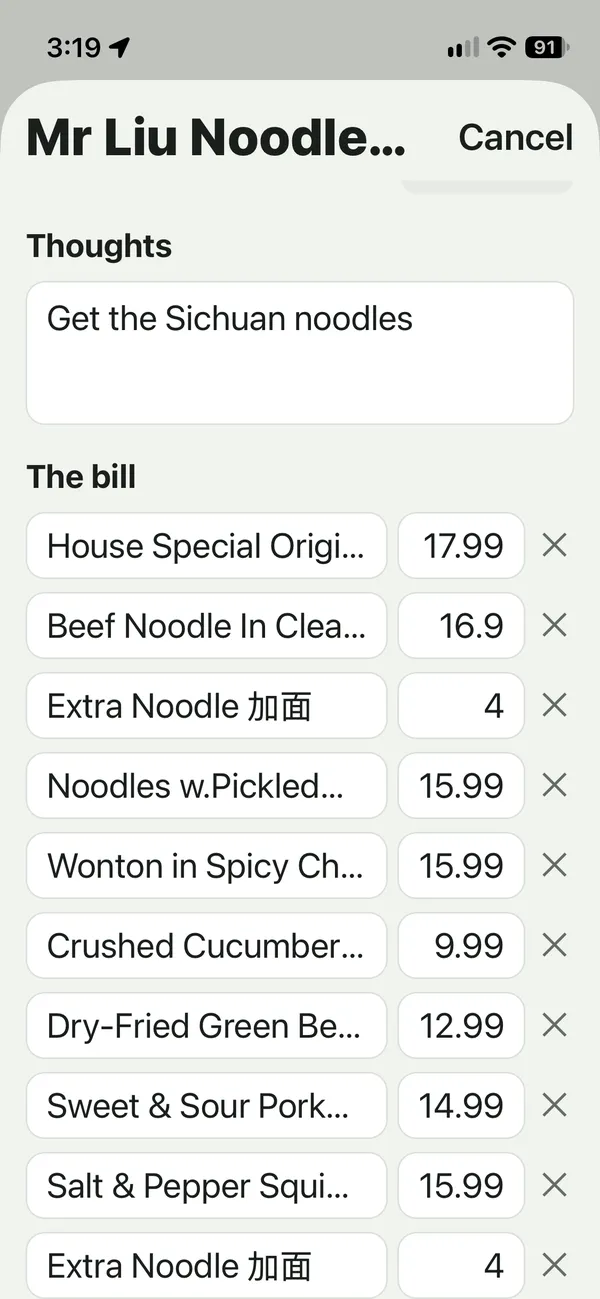
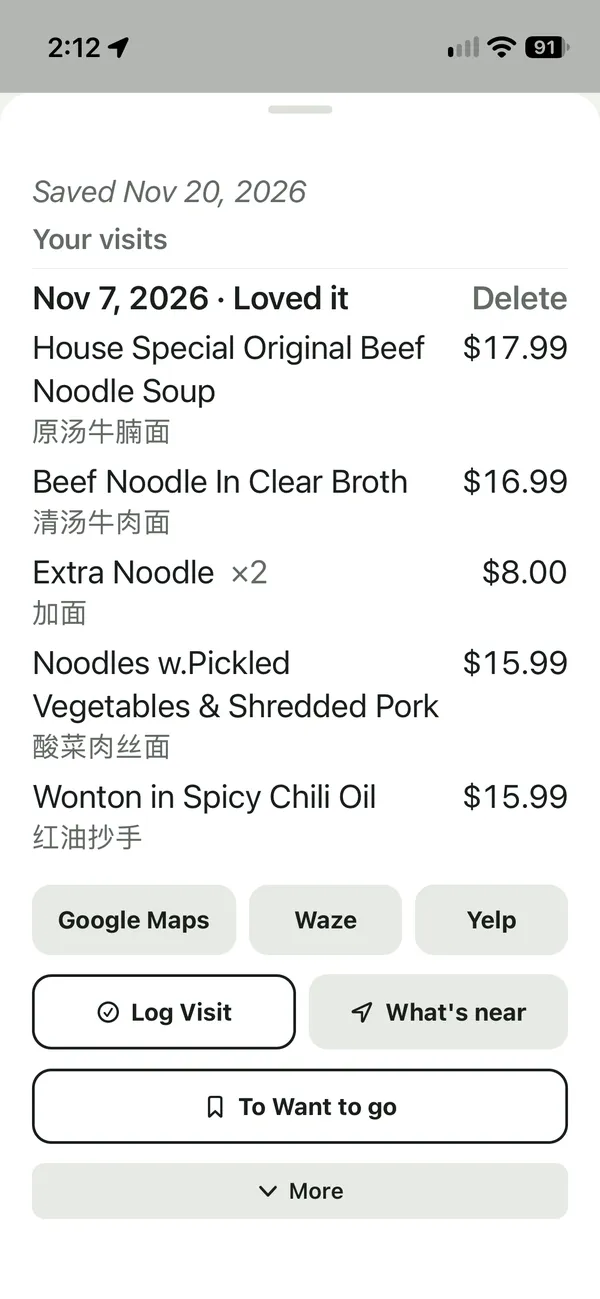
Screenshots: three that fit without scrolling (suggestions, photo, bill)
Claude-Session: https://claude.ai/code/session_011gUbr1DtkPg8KRrYA3LGis

diff --git a/index.html b/index.html
@@ -94,13 +94,10 @@
   .get { display: flex; flex-wrap: wrap; align-items: center; gap: 12px 20px; margin: 0 0 40px; }
   .get .button { margin: 0; }
   .get span { color: var(--muted); }
-  .shots {
-    display: flex; gap: 14px; overflow-x: auto; scroll-snap-type: x mandatory;
-    margin: 0 -20px; padding: 4px 20px 12px; -webkit-overflow-scrolling: touch;
-  }
-  .shots figure { flex: 0 0 200px; margin: 0; scroll-snap-align: start; }
+  .shots { display: grid; grid-template-columns: repeat(3, minmax(0, 1fr)); gap: 14px; margin: 0 0 8px; }
+  .shots figure { margin: 0; min-width: 0; }
   .shots img {
-    width: 200px; height: auto; display: block; border-radius: 18px;
+    width: 100%; height: auto; display: block; border-radius: 16px;
     border: 1px solid var(--line); background: var(--card);
   }
   .shots figcaption { color: var(--muted); font-size: 14px; line-height: 1.4; margin-top: 8px; }
@@ -118,10 +115,9 @@
   </div>
 
   <div class="shots" aria-label="Screenshots">
-    <figure><img src="shots/list.webp" alt="Near Me list with suggestions and the reason for each" width="200" height="433" loading="lazy"><figcaption>Suggestions near you, each with a reason.</figcaption></figure>
-    <figure><img src="shots/map.webp" alt="Map of favorites, want to go and suggested places" width="200" height="433" loading="lazy"><figcaption>Your places and suggestions on one map.</figcaption></figure>
-    <figure><img src="shots/photo.webp" alt="Adding a place from a photo of a restaurant's entrance" width="200" height="433" loading="lazy"><figcaption>Snap a storefront and it finds the place.</figcaption></figure>
-    <figure><img src="shots/bill.webp" alt="A logged visit with dishes read from the bill" width="200" height="433" loading="lazy"><figcaption>Photograph the bill and it lists what you had.</figcaption></figure>
+    <figure><img src="shots/list.webp" alt="Near Me list with suggestions and the reason for each" width="600" height="1299" loading="lazy"><figcaption>Suggestions near you, each with a reason.</figcaption></figure>
+    <figure><img src="shots/photo.webp" alt="Adding a place from a photo of a restaurant's entrance" width="600" height="1299" loading="lazy"><figcaption>Snap a storefront and it finds the place.</figcaption></figure>
+    <figure><img src="shots/bill.webp" alt="A logged visit with dishes read from the bill" width="600" height="1299" loading="lazy"><figcaption>Photograph the bill and it lists what you had.</figcaption></figure>
   </div>
 
   <h2>What it does</h2>
